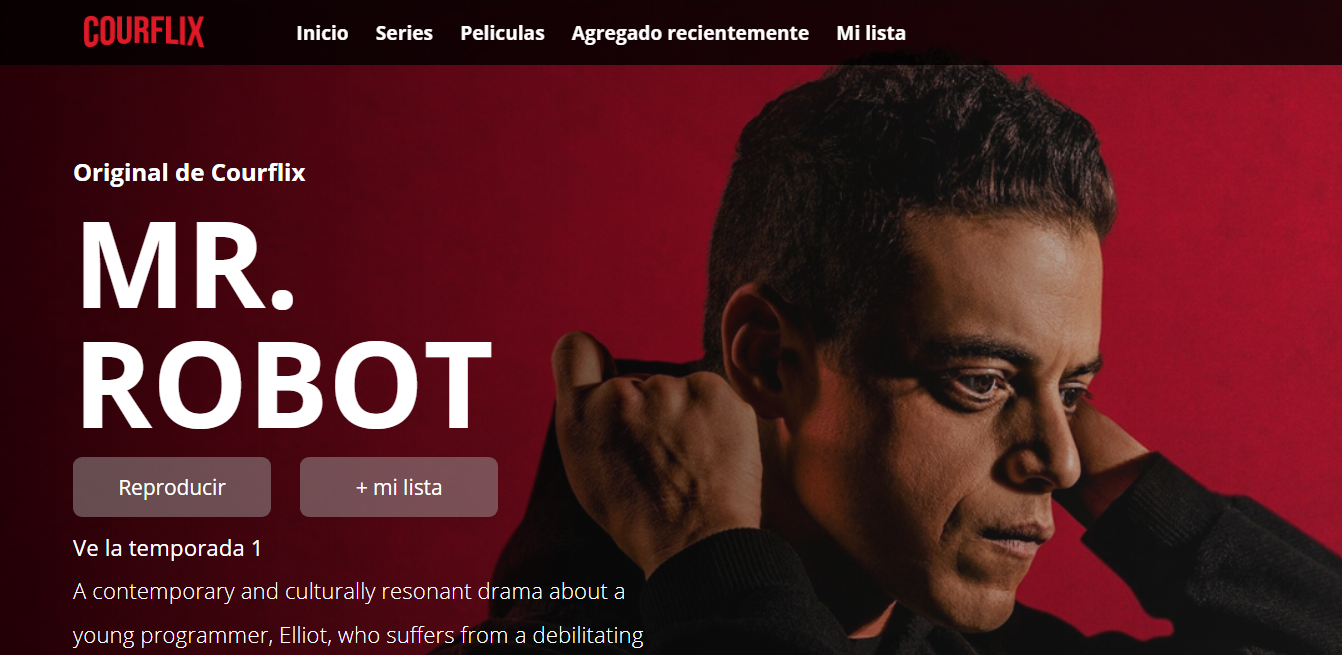
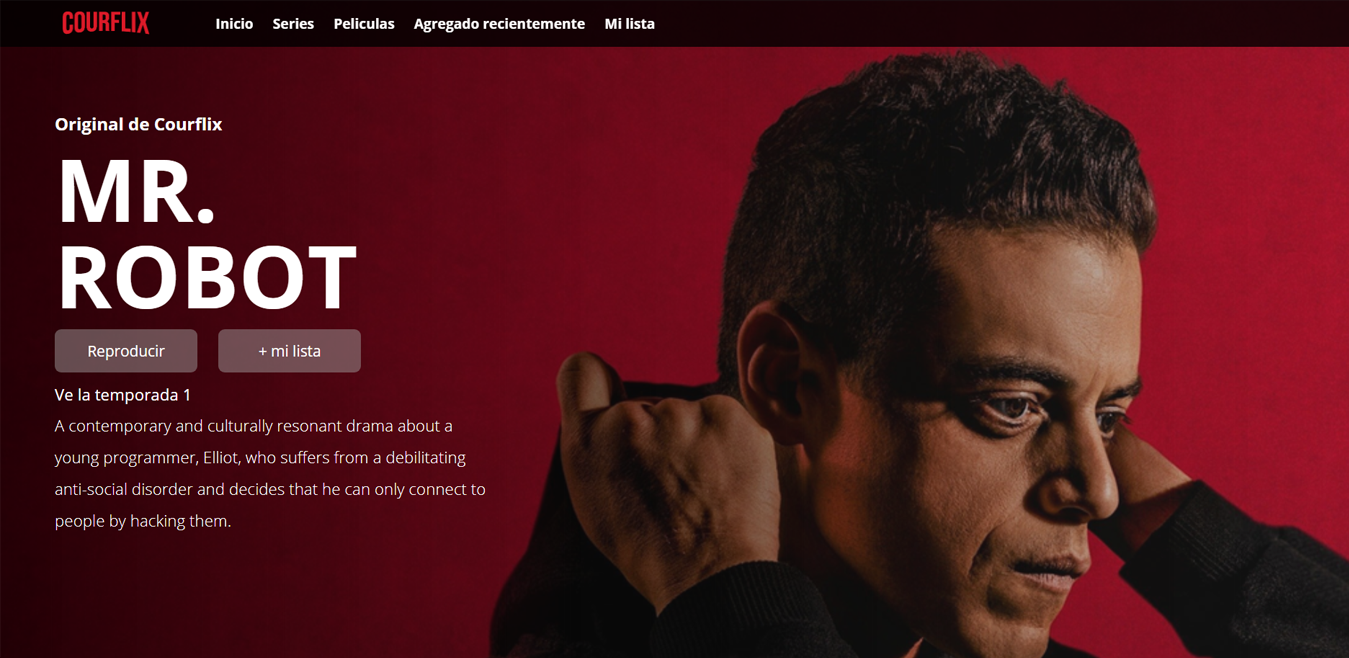
Changes in the size of some pictures

diff --git a/CSS/style.css b/CSS/style.css
@@ -88,7 +88,7 @@ body .main-text {
     -webkit-box-pack: center;
         -ms-flex-pack: center;
             justify-content: center;
-    font-size: 1em;
+    font-size: 1.5em;
     min-width: 100%;
   }
 }
@@ -118,6 +118,25 @@ body .main-text-principal {
             flex-direction: column;
     font-size: 1em;
     min-width: 100vw;
+    background-image: none;
+  }
+}
+
+@media (max-width: 568px) {
+  body .main-text-principal {
+    display: -webkit-box;
+    display: -ms-flexbox;
+    display: flex;
+    -webkit-box-pack: center;
+        -ms-flex-pack: center;
+            justify-content: center;
+    -webkit-box-orient: vertical;
+    -webkit-box-direction: normal;
+        -ms-flex-direction: column;
+            flex-direction: column;
+    font-size: 1em;
+    min-width: 100vw;
+    background-image: none;
   }
 }
 

diff --git a/CSS/style.scss b/CSS/style.scss
@@ -75,7 +75,7 @@ body {
         @media (max-width: $minimobile-breakpoint) {
             display: flex;
             justify-content: center;
-            font-size: 1em;
+            font-size: 1.5em;
             min-width: 100%;
         }
 
@@ -95,6 +95,16 @@ body {
                 flex-direction: column;
                 font-size: 1em;
                 min-width: 100vw;
+                background-image: none;
+            }
+
+            @media (max-width: $mobile-breakpoint) {
+                display: flex;
+                justify-content: center;
+                flex-direction: column;
+                font-size: 1em;
+                min-width: 100vw;
+                background-image: none;
             }
 
             &-h1 {
